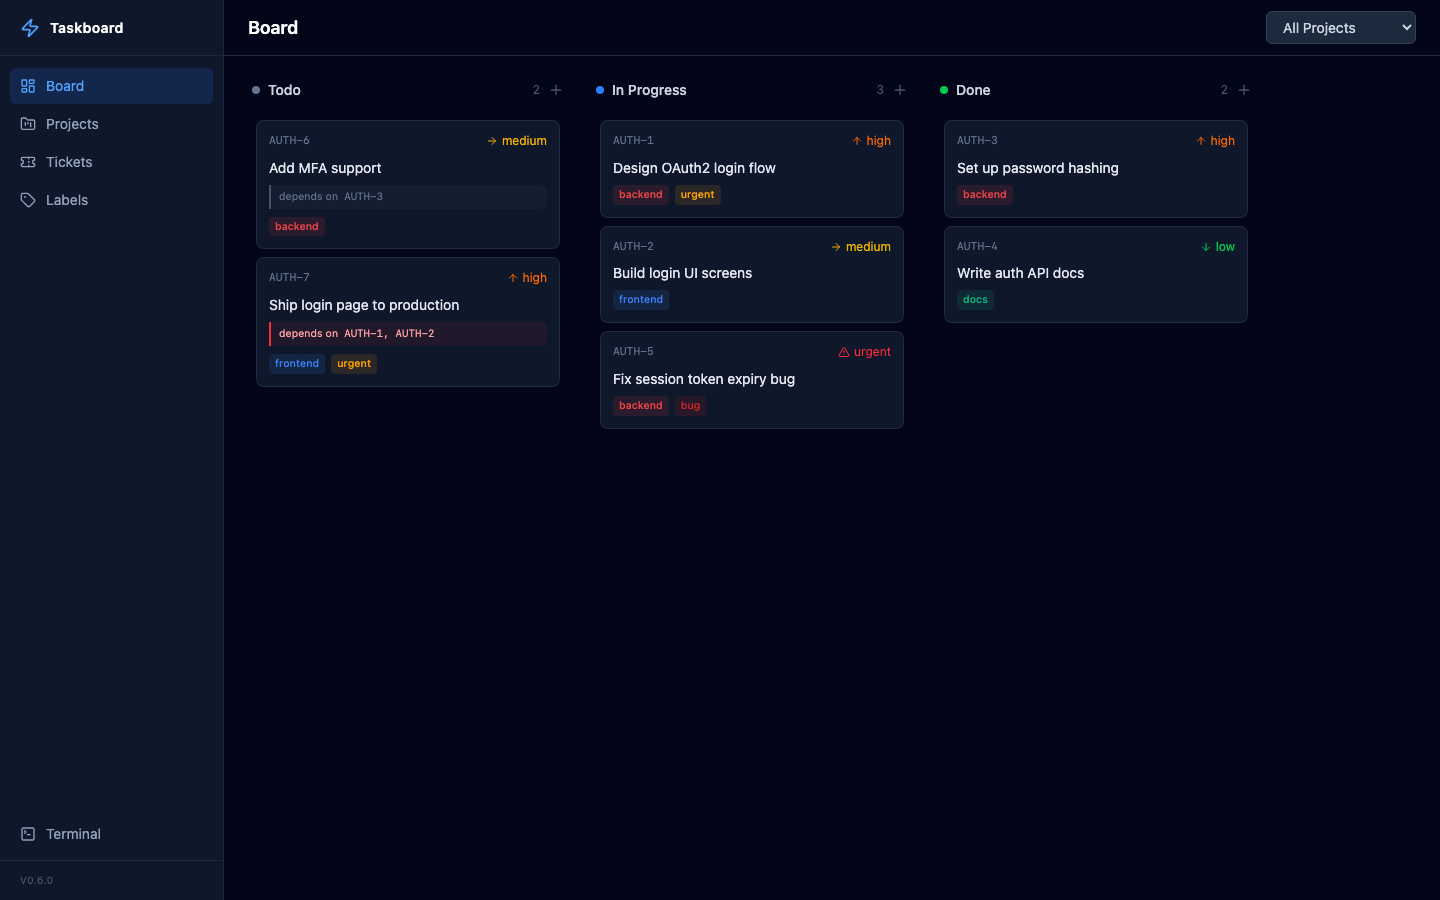
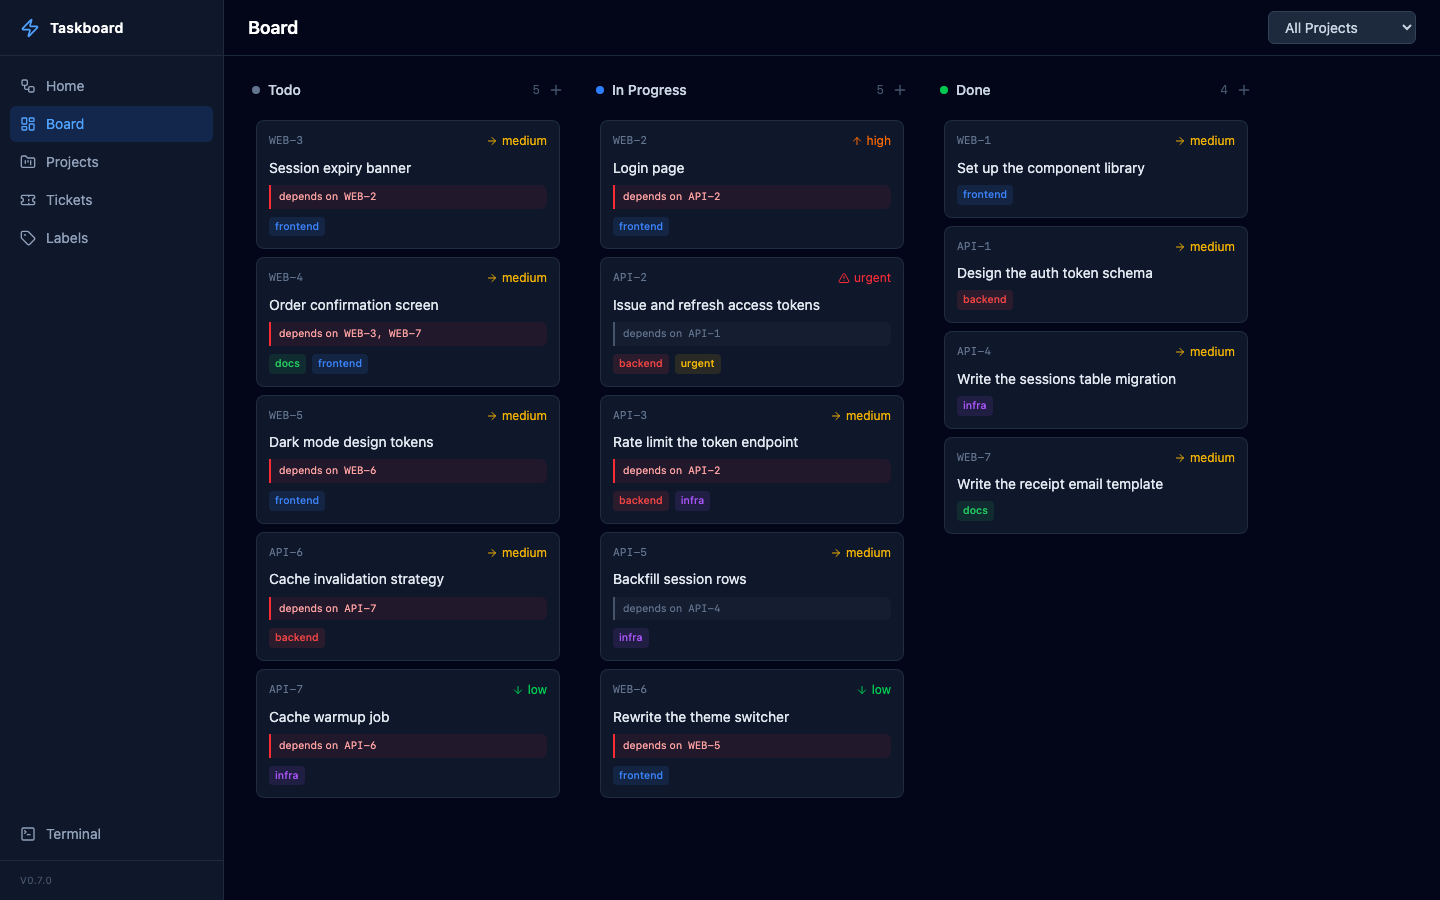
feat: make the dependency graph the home page and move the board to /board
The graph page was only reachable by typing /graph, while the index route
and the first sidebar entry were still the kanban board. The graph now opens
at /, and the board lives at /board.

- App.tsx renders Graph as the index route and Board at /board. /graph
  redirects to / with replace, so a link or bookmark made while the page
  lived there still lands on it, without leaving two URLs for one page or a
  Home entry that isn't lit on one of them. Nothing else in the app linked to
  / expecting the board.
- The sidebar starts with Home, with lucide's Workflow icon of joined boxes,
  then Board, Projects, Tickets and Labels. Home keeps `end`, so it is only
  active on / itself, and Board is active on /board. The styling and the
  Terminal button are unchanged.
- The sidebar footer reads v0.7.0. It is display only; the release workflow
  and tags are untouched.
- The README introduces the graph as the home page, lists it first under
  Features with what it does, and shows graph.png ahead of board.png.
- screenshots/graph.png is new and screenshots/board.png is regenerated,
  both at 1440x900 and device scale factor 1 like the existing shots. They
  come from a seeded throwaway database of two made-up projects: 14 tickets,
  10 of them open, in four depth columns with a cross-project edge and two
  cycles. The graph is shown unhovered, as a fitted page loads, since a
  hover dims most of the cards.

Served from the built binary against a seeded throwaway database, / showed
[…]

diff --git a/web/src/App.tsx b/web/src/App.tsx
@@ -1,4 +1,4 @@
-import { BrowserRouter, Routes, Route } from "react-router-dom";
+import { BrowserRouter, Routes, Route, Navigate } from "react-router-dom";
 import Layout from "./components/Layout";
 import Board from "./pages/Board";
 import Graph from "./pages/Graph";
@@ -11,8 +11,10 @@ export default function App() {
     <BrowserRouter>
       <Routes>
         <Route element={<Layout />}>
-          <Route index element={<Board />} />
-          <Route path="graph" element={<Graph />} />
+          <Route index element={<Graph />} />
+          <Route path="board" element={<Board />} />
+          {/* The graph lived here before it became the home page. */}
+          <Route path="graph" element={<Navigate to="/" replace />} />
           <Route path="projects" element={<Projects />} />
           <Route path="tickets" element={<Tickets />} />
           <Route path="labels" element={<Labels />} />

diff --git a/web/src/components/Layout.tsx b/web/src/components/Layout.tsx
@@ -1,6 +1,7 @@
 import { useState } from "react";
 import { NavLink, Outlet } from "react-router-dom";
 import {
+  Workflow,
   LayoutDashboard,
   FolderKanban,
   Ticket,
@@ -11,7 +12,8 @@ import {
 import TerminalPanel from "./TerminalPanel";
 
 const navItems = [
-  { to: "/", icon: LayoutDashboard, label: "Board" },
+  { to: "/", icon: Workflow, label: "Home" },
+  { to: "/board", icon: LayoutDashboard, label: "Board" },
   { to: "/projects", icon: FolderKanban, label: "Projects" },
   { to: "/tickets", icon: Ticket, label: "Tickets" },
   { to: "/labels", icon: Tag, label: "Labels" },
@@ -66,7 +68,7 @@ export default function Layout() {
 
         <div className="px-5 py-3 border-t border-slate-800">
           <p className="text-[10px] text-slate-600 tracking-wider uppercase">
-            v0.6.0
+            v0.7.0
           </p>
         </div>
       </aside>

diff --git a/README.md b/README.md
@@ -1,10 +1,12 @@
 # Taskboard
 
-A local, self-hosted project management tool with a Kanban UI, full CLI, and a built-in [MCP](https://modelcontextprotocol.io/) server that lets AI assistants manage your projects, tickets, and labels directly.
+A local, self-hosted project management tool with a dependency graph for a home page, a Kanban board, a full CLI, and a built-in [MCP](https://modelcontextprotocol.io/) server that lets AI assistants manage your projects, tickets, and labels directly.
 
 Single binary. SQLite-backed. No Docker, no external database, no runtime dependencies.
 
 ## Screenshots
+
+![Dependency Graph](screenshots/graph.png)
 
 ![Kanban Board](screenshots/board.png)
 
@@ -12,7 +14,8 @@ Single binary. SQLite-backed. No Docker, no external database, no runtime depend
 
 ## Features
 
-- **Kanban Board** — drag-and-drop ticket management across Todo, In Progress, and Done columns
+- **Dependency Graph** — the home page puts open tickets in columns by how many steps of unfinished work block them, with arrows from each blocker and cycles drawn in red. Hover a card to trace what blocks it and what it blocks; pan, zoom or fit the graph to the screen
+- **Kanban Board** — drag-and-drop ticket management across Todo, In Progress, and Done columns, at `/board`
 - **Projects** — organize work with customizable projects (icons, colors, prefixes)
 - **Tickets** — priority levels, due dates, labels, subtasks, dependencies, and one or more repos
 - **Embedded Terminal** — run AI coding agents (opencode, Claude Code) directly from the web UI
